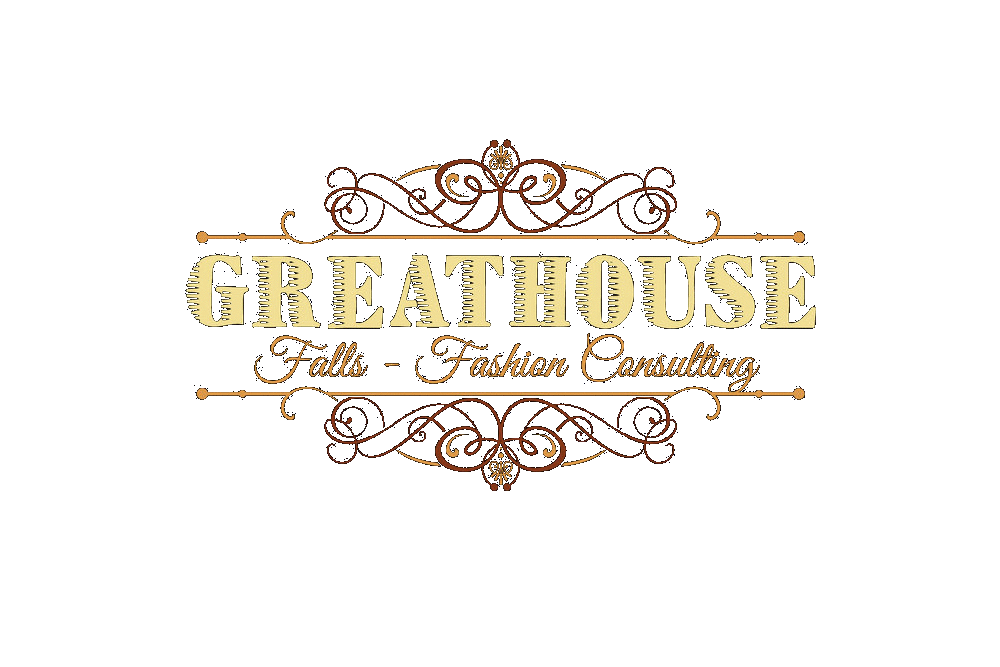
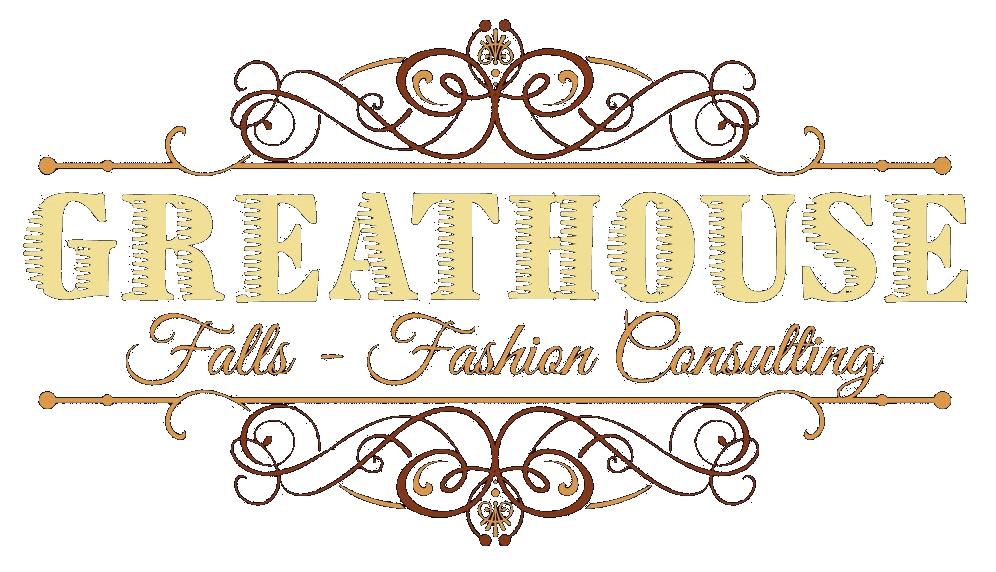
little touches & fixes

Changed region(s): [[0.0, 0.0297, 0.996, 0.951], [0.7159, 0.8619, 0.747, 0.8916], [0.7159, 0.0892, 0.747, 0.1189]]

diff --git a/index.html b/index.html
@@ -9,8 +9,8 @@
     <!-- <link rel="stylesheet" href="//maxcdn.bootstrapcdn.com/font-awesome/4.3.0/css/font-awesome.min.css"> -->
 
     <!-- Linking the Favicon -->
-    <link rel="shortcut icon" href="img/favicon.png" type="image/x-icon"> <!-- 16 by 16 -->
-    <link rel="icon" href="img/favicon.png" type="image/x-icon"> <!-- 16 by 16 -->
+    <!-- <link rel="shortcut icon" href="img/favicon.png" type="image/x-icon"> < 16 by 16 --> 
+    <link rel="icon" href="public/img/favicon-briefcase.ico" type="image/x-icon"> <!-- 16 by 16 -->
 
     <!-- Fonts -->
 		<link href='https://fonts.googleapis.com/css?family=Lato:100,300,400,700,100italic,300italic,400italic|Open+Sans:300italic,400italic,600italic,400,300,600' rel='stylesheet' type='text/css'>
@@ -84,8 +84,8 @@
 				<div id="logo"  class="medium-10 medium-centered text-center columns headliner" style="display:none">
 
           <!-- Greathouse Falls Info -->
-					<div class="row">
-            <div class="medium-10 medium-centered text-center columns">
+					<div class="row" style="padding-bottom: 50px !important">
+            <div class="medium-8 medium-centered text-center columns">
 							<h1 class="white" style="display:inline"> </h1>
 								<img src="public/img/greathouse-transparent.png" />
             </div>
@@ -115,7 +115,6 @@
 
           <div class="wow fadeIn" data-wow-delay="0.4s">
             <p style="color:#222"><b>Greathouse Falls Fashion Consulting</b> offers services where an individual can send a text to get fashion advice or use snapchat to get feedback on their attire.
-            <br>
             <br>
             <p style="color:#222">As of right now, we are still putting some finishing touches into the company. In the meantime, you can use the services mentioned above by texting or sending a snapchat to this number: <b>(405) 219-1583</b></p>
           </div>

diff --git a/public/app.css b/public/app.css
@@ -9,16 +9,6 @@ html
 
 @import url(http://weloveiconfonts.com/api/?family=zocial);
 
-/* zocial */
-[class*="zocial-"]:before {
-  font-family: 'zocial', sans-serif;
-}
-
-/* hides scrollbar on mobile */
-::-webkit-scrollbar { 
-    width: 0 !important
-}
-
 html > body {
 
 }
@@ -54,10 +44,11 @@ header {
         ),
         url(img/parchment.jpg);
     width: 100%;
-    height: 100%;
-    overflow-x: hidden;
-    background-size: cover;
+    /*height: 100%;*/
+    /*overflow-x: hidden;*/
+    /*background-size: cover;*/
     background-position: center;
+    background-repeat: repeat-y;
     font-family: 'Lato', sans-serif !important;
     color: #fff !important;
     margin-bottom: -100px !important;
@@ -67,7 +58,7 @@ header {
 
 section {
 	margin: 5rem 0;    
-    overflow-x: hidden;
+    /*overflow-x: hidden;*/
 }
 
 h1 {
@@ -106,6 +97,7 @@ video {
 h3 {
     font-size: 5em !important;
     font-family: 'GreatVibes' !important;
+    line-height: 80% !important;
 }
 
 .cta-button > .button {
@@ -222,6 +214,21 @@ h3 {
 
 .headliner img {
     margin-top: -150px !important;
+}
+
+@media (max-width: 480px) {
+    .headliner {
+        margin-top: 160px;
+    }
+    .headliner img {
+        margin-top: -50px !important;
+    }
+    .info {
+        font-size: 1em !important;
+    }
+    h3 {
+        font-size: 3.5em !important;
+    }
 }
 
 #loading-contents {
